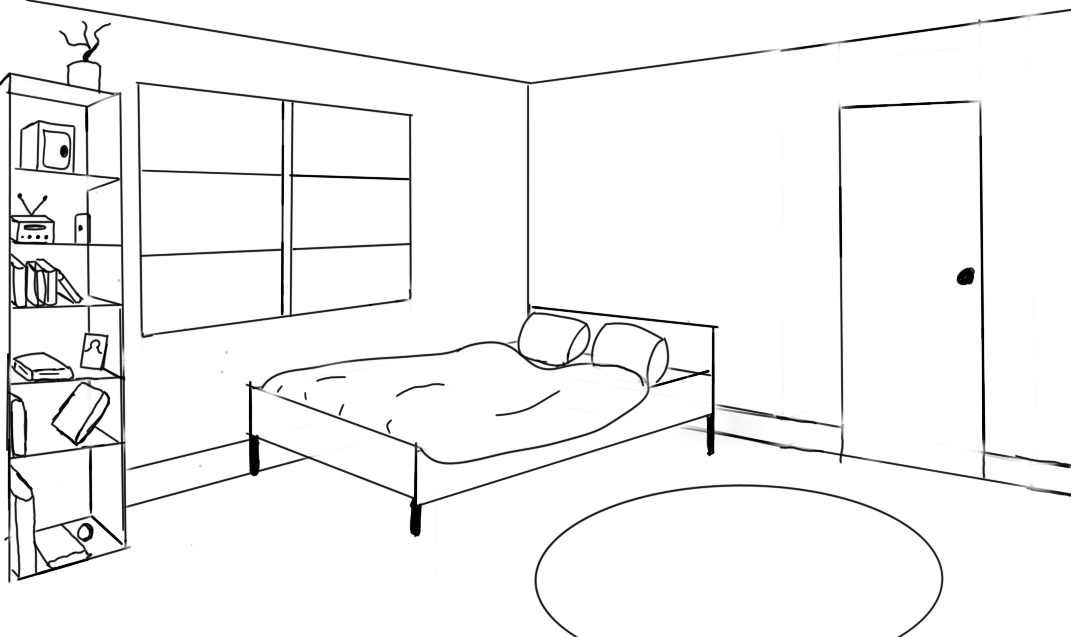
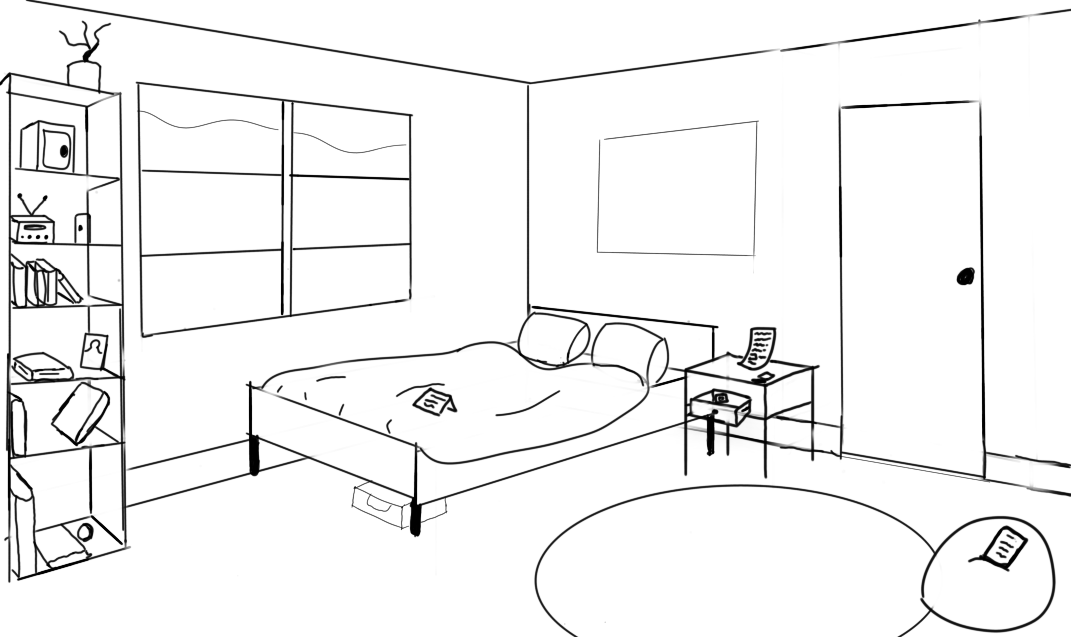
feat : added the senarios(quiz-hints) in the page bedroom

diff --git a/bedroom.html b/bedroom.html
@@ -11,14 +11,20 @@
 <img src="images/bedroom.png" width="auto" height="auto" usemap="#image-map">
 
 <map name="image-map">
-    <area  onclick="afficheMessage('Ah the bookshelf i put the book that the doctor recommended me yesterday that explains the sikness should i <a href=\'javascript:showbook();\'>read it ?</a>');" coords="11,571,124,67" shape="rect">
-    <area onclick="showConfirmBox()" coords="738,470,983,104" shape="rect">
+    <area  onclick="afficheMessage('Voulez vous lire des trucs interresant <a href=\'javascript:showbook();\'>click ici </a>');" coords="11,571,124,67" shape="rect">
+    <area onclick="showConfirmBox()" coords="738,370,983,104" shape="rect">
+    <area onclick="showPaperBed()" coords="394,360,330,300" shape="rect">
+    <area onclick="showTablet()" coords="730,460,967,502" shape="rect">
+    <area onclick="showQuiz1()" coords="374,460,320,400" shape="rect">
+    <area onclick="showPaperTable()" coords="594,310,690,280" shape="rect">
+    <area onclick="showQuiz2()" coords="550,320,650,339" shape="rect">
+
 </map>
 </div>
 <div id="instructions">
 </div>
 <script src="js/instructions.js"></script>
-<script>afficheMessage("Bonjour, c'est moi x, j'ai 20 voici mon chambre. Yesterday i was digonased with HIV. I am afraid, would i ever be able to live my life normally like before ... i need to undertand more about it would you help me learn more so i can feel at ease getting out of my room? ");</script>
+<script>afficheMessage("Bienvenu dans l’aventure, Vous vous retrouvez dans cet appartement. Votre objectif est de s'échapper. Pour cela vous devez résoudre des quiz et chercher des objets pour trouver un moyen de démarrer la voiture.");</script>
 
 <!-- Trigger/Open The Modal 
 <button id="myBtn">Open Modal</button>-->
@@ -65,26 +71,98 @@ Le fait d’être infecté-e par le VIH ou d’avoir le SIDA ne se voit pas en d
     <!-- Modal content -->
     <div class="modal-content">
         <a href="javascript:hides();"><span class="close">&times;</span></a>
-        <h1>Quiz</h1>
-        <h2>JavaScript is ______ Language.</h2><br>
+        <h2>Ouvrir porte</h2><br>
         <form >
-            <input type="radio" name="choice" value="Scripting"> Scripting
-            <input type="radio" name="choice" value="Programming"> Programming
-            <input type="radio" name="choice" value="Application"> Application
-            <input type="radio" name="choice" value="None of These"> None of These
+            Code = <input id="codet" type="number" name="ans">
         </form>
-        <button onclick="submitAnswer()">Submit Answer</button>
+        <button onclick="submitAnswerDoor()">Submit Answer</button>
     </div>
 </div>
 <div class="overlay" id="overlay" hidden>
     <div class="confirm-box">
       <div onclick="closeConfirmBox()" class="close">&#10006;</div>
-      <h2>Get out from the room</h2>
-      <p>I am to scared to getout the room without knowing much, I can always search for more informations in the room, do you think i can solve all of this quiz questions?</p>
+      <h2>Sortir de la champs</h2>
+      <p>il faut avoir la code secret</p>
       <button onclick="isConfirm(true)">Yes</button>
       <button onclick="isConfirm(false)">No</button>
     </div>
   </div>
+
+<!-- The Modal -->
+<div id="paperBed" class="modal">
+    <!-- Modal content -->
+    <div class="modal-content">
+        <a href="javascript:hides();"><span class="close">&times;</span></a>
+        <p>
+          Le code de la porte est ……. <br/>
+          l’ordre : <br/>
+          1.Prévention<br/>
+          2.population<br/>
+        </p>
+    </div>
+</div>
+
+<!-- The Modal -->
+<div id="tablet" class="modal">
+  <!-- Modal content -->
+  <div class="modal-content">
+      <a href="javascript:hides();"><span class="close">&times;</span></a>
+      <p>
+        News:
+DÉPISTAGE INSUFFISANT
+En 2021, le dépistage a progressé par rapport à 2020 sans toutefois retrouver le niveau de 2019. Au total, 5,7 millions de sérologies VIH ont été réalisées en 2021, soit 8% de plus qu'en 2020 (5,3 millions). Le nombre d'autotests vendus en pharmacie a été d'environ 65 000 en 2021, soit une hausse de 15% par rapport à 2020. Toutefois les ventes d'auto tests avaient baissé de 30% entre 2019 et 2020. La hausse de 2021 a donc été insuffisante pour retrouver les niveaux de 2019.
+
+      </p>
+  </div>
+</div>
+
+<!-- The Modal -->
+<div id="quiz1" class="modal">
+  <!-- Modal content -->
+  <div class="modal-content">
+      <a href="javascript:hides();"><span class="close">&times;</span></a>
+      <h1>Quiz</h1>
+      <h2>Combien de personnes se sont fait dépister en 2021 ?”</h2><br>
+      <form >
+          <input type="radio" name="choice" value="yes"> 65 000
+          <input type="radio" name="choice" value="no1"> 70 000
+          <input type="radio" name="choice" value="no2"> 90 000
+          <input type="radio" name="choice" value="no3"> 100 000
+      </form>
+      <br/>
+      <button onclick="submitAnswer(5)">Submit Answer</button>
+  </div>
+</div>
+
+<!-- The Modal -->
+<div id="quiz2" class="modal">
+  <!-- Modal content -->
+  <div class="modal-content">
+      <a href="javascript:hides();"><span class="close">&times;</span></a>
+      <h1>Quiz</h1>
+      <h2>Quel est le moyen de contraception le plus utilisé ?”</h2><br>
+      <form>
+          <input type="radio" name="choice" value="no2"> préservatif masculin
+          <input type="radio" name="choice" value="no1"> le sterilet
+          <input type="radio" name="choice" value="yes"> la pillule
+          <input type="radio" name="choice" value="no3"> l'implant
+      </form>
+      <br/>
+      <button onclick="submitAnswer(4)">Submit Answer</button>
+  </div>
+</div>
+
+<!-- The Modal -->
+<div id="paperTable" class="modal">
+  <!-- Modal content -->
+  <div class="modal-content">
+      <a href="javascript:hides();"><span class="close">&times;</span></a>
+      <p>
+        News: Le préservatif est le moyen de contraception le plus utilisé
+      </p>
+  </div>
+</div>
+
   <script>
   function showConfirmBox() {
     document.getElementById("overlay").hidden = false;
@@ -116,6 +194,31 @@ function showquestion() {
   modal.style.display = "block";
 }
 
+function showPaperBed(){
+    modal = document.getElementById("paperBed");
+  modal.style.display = "block";
+}
+
+function showTablet(){
+    modal = document.getElementById("tablet");
+  modal.style.display = "block";
+}
+
+function showQuiz1(){
+    modal = document.getElementById("quiz1");
+  modal.style.display = "block";
+}
+
+function showQuiz2(){
+    modal = document.getElementById("quiz2");
+  modal.style.display = "block";
+}
+
+function showPaperTable(){
+    modal = document.getElementById("paperTable");
+    modal.style.display = "block";
+}
+
 // When the user clicks on <span> (x), close the modal
 function hides() {
   modal.style.display = "none";
@@ -141,13 +244,28 @@ function submitAnswer() {
   }
   
   if (val == "" ) {
-    alert('please select choice answer');
-  } else if ( val == "Scripting" ) {
-    alert('Answer is correct !');
-    window.location.href = "./LivingRoom.html";
+    alert('il faut choissir');
+  } else if ( val == "yes" ) {
+    afficheMessage('Bon reponse :) you got the number '+ arguments[0]);
+    hides();
   } else {
-    afficheMessage('I didn\'t have got it right ... I am sure I can find more informations in this room');
+    afficheMessage('Hmm ... peut etre on peut trouver la solution dans cette salle');
+    hides();
+  }
+
+  
+}
+
+function submitAnswerDoor(){
+  var x = document.getElementById("codet").value;
+  if (x == '54'){
+    afficheMessage('Bon reponse : ) ');
+    window.location.href = "./LivingRoom.html";
+  }
+  else{
+    afficheMessage('Code incorrect ...');
   }
 }
+
 
 </script>

diff --git a/css/style.css b/css/style.css
@@ -1,14 +1,13 @@
 #image{
 height: 100%;
-background-color: black;
+background-color: white;
 text-align: center;
 }
 
 #consignes{
 font-family: sans-serif;
 height : 15%;
-padding-left: 5%;
-padding-right: 5%;
+
 text-align: center;
 font-size: 5vh;}
 
